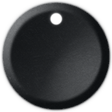
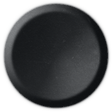
Improve rotated knob (#234)

diff --git a/NeuralAmpModeler/NeuralAmpModeler.cpp b/NeuralAmpModeler/NeuralAmpModeler.cpp
@@ -70,17 +70,22 @@ public:
   : IVKnobControl(bounds, paramIdx, label, style)
   , IBitmapBase(bitmap)
   {
+    mInnerPointerFrac = 0.6;
   }
 
   void DrawWidget(IGraphics& g) override
   {
     float widgetRadius = GetRadius();
     const float cx = mWidgetBounds.MW(), cy = mWidgetBounds.MH();
-    IRECT knobHandleBounds = mWidgetBounds.GetCentredInside((widgetRadius - mTrackToHandleDistance) * 2.f);
+    IRECT knobHandleBounds = mWidgetBounds.GetCentredInside((widgetRadius - mTrackToHandleDistance) * 2.5f);
     const float angle = mAngle1 + (static_cast<float>(GetValue()) * (mAngle2 - mAngle1));
-    g.FillEllipse(GetColor(mMouseIsOver ? kX3 : kX1), knobHandleBounds, &mBlend);
     DrawIndicatorTrack(g, angle, cx, cy, widgetRadius);
-    g.DrawRotatedBitmap(mBitmap, mRECT.MW(), mRECT.MH(), angle);
+    g.DrawBitmap(mBitmap, knobHandleBounds.GetTranslated(4, 3), 0, 0);
+    float data[2][2];
+    RadialPoints(angle, cx + 1, cy, mInnerPointerFrac * widgetRadius, mInnerPointerFrac * widgetRadius, 2, data);
+    g.PathCircle(data[1][0], data[1][1], 3);
+    g.PathFill(IPattern::CreateRadialGradient(data[1][0], data[1][1], 4.0f, {{GetColor(mMouseIsOver ? kX3 : kX1), 0.f}, {GetColor(mMouseIsOver ? kX3 : kX1), 0.8f}, {COLOR_TRANSPARENT, 1.0f}}), {}, &mBlend);
+    g.DrawCircle(COLOR_BLACK.WithOpacity(0.5f), data[1][0], data[1][1], 3, &mBlend);
   }
 };
 